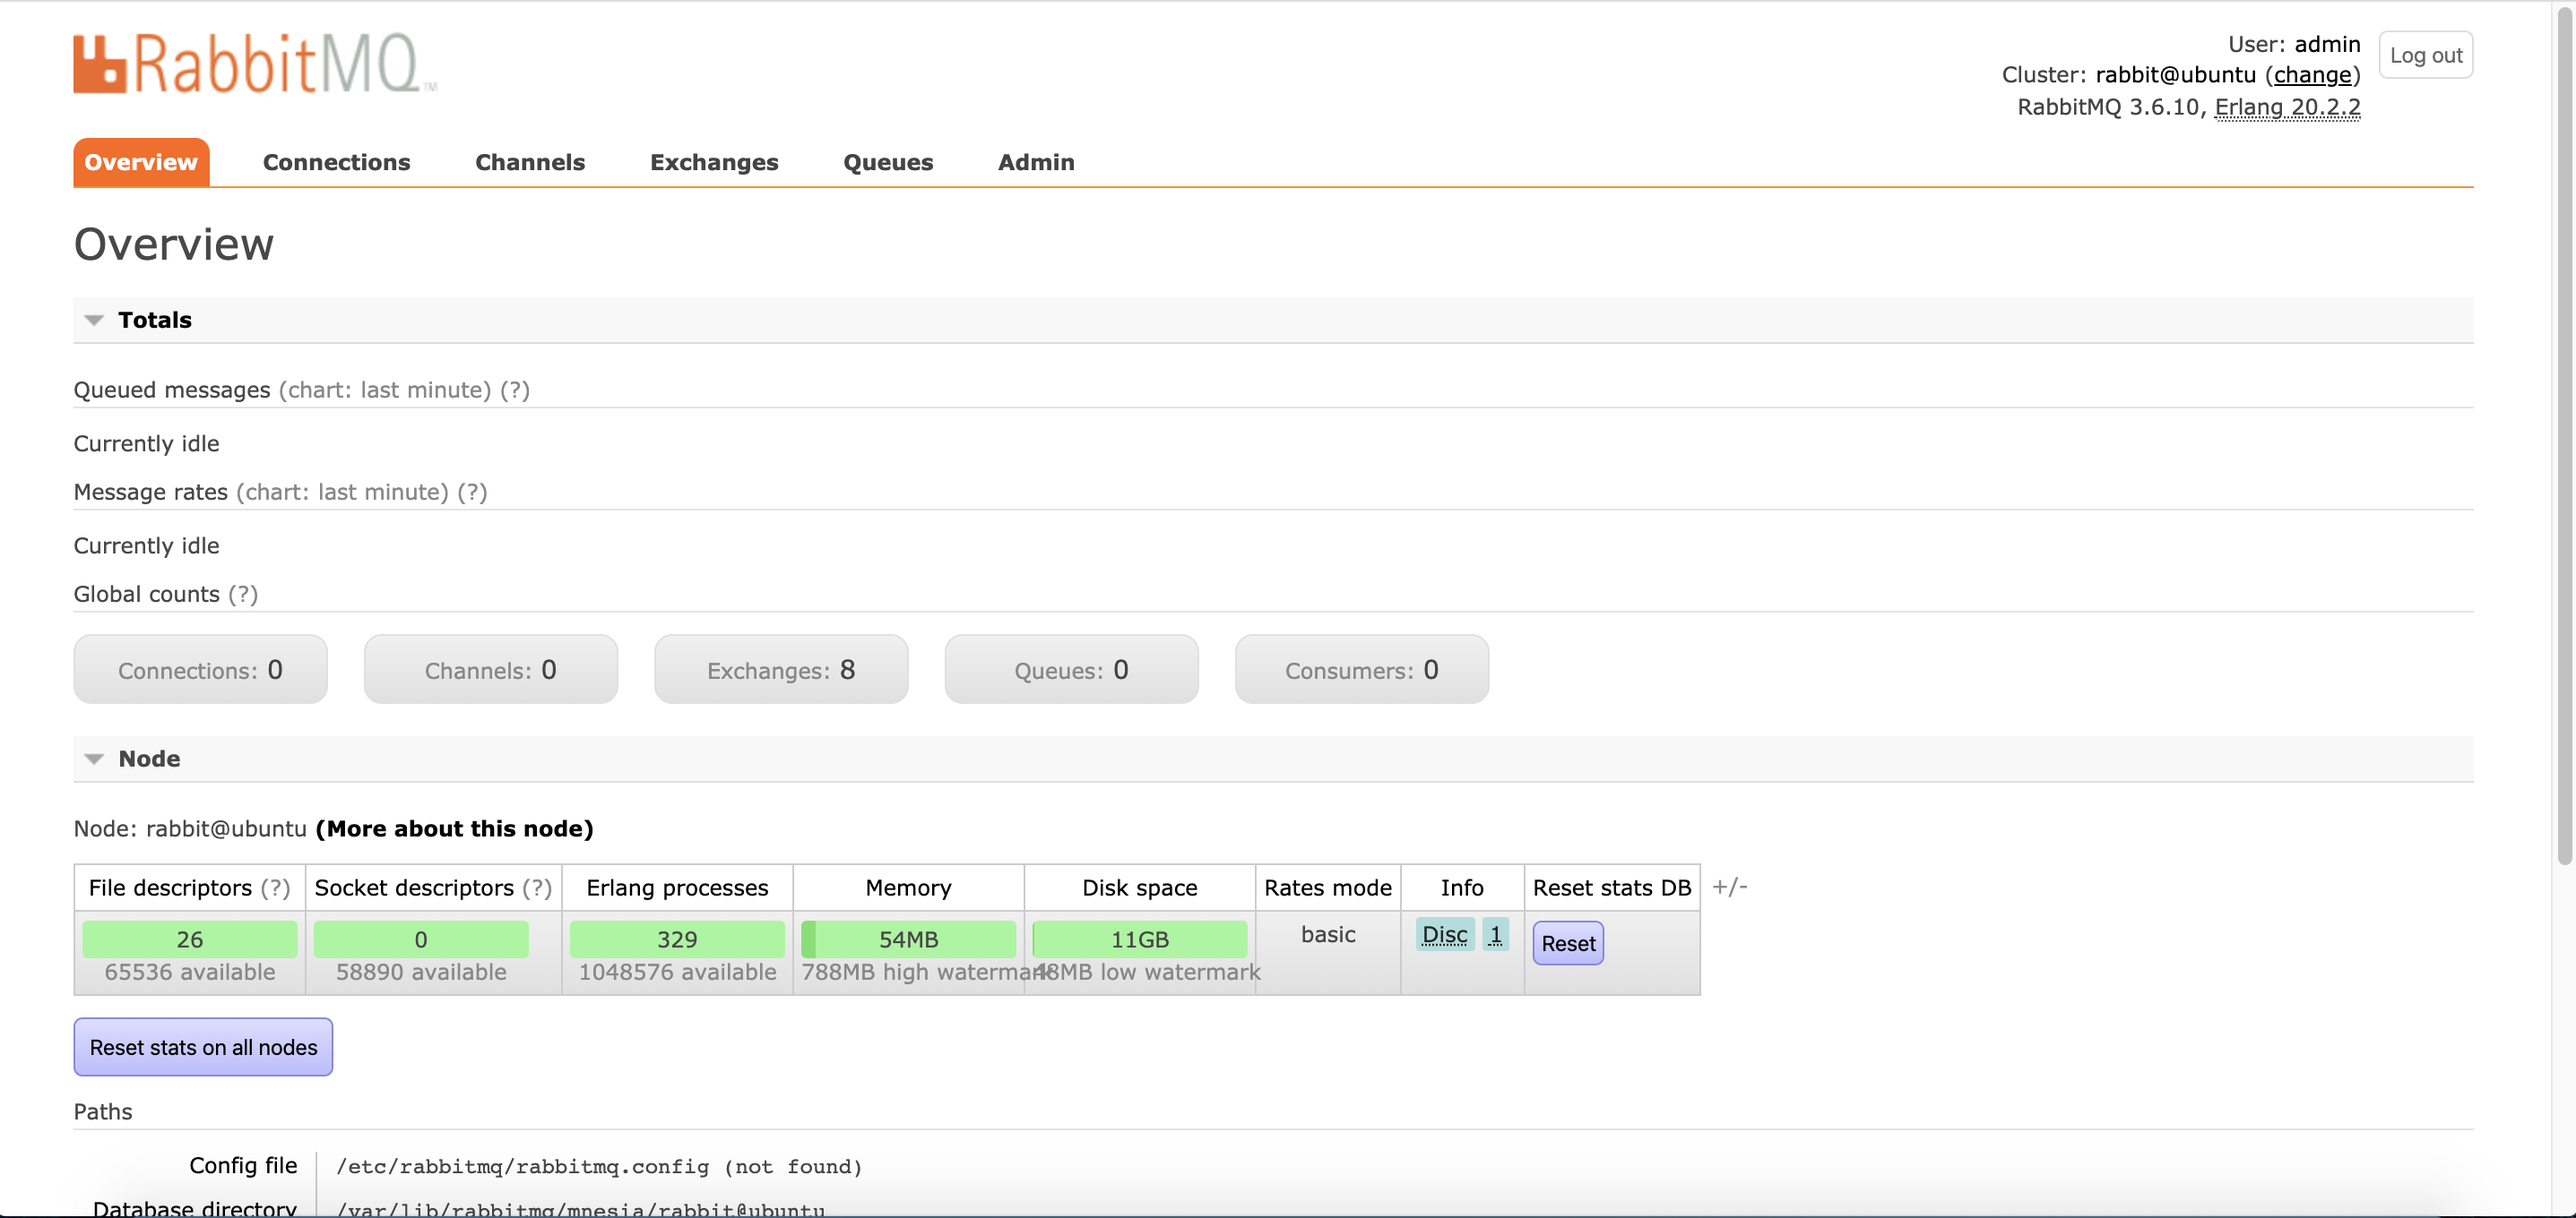
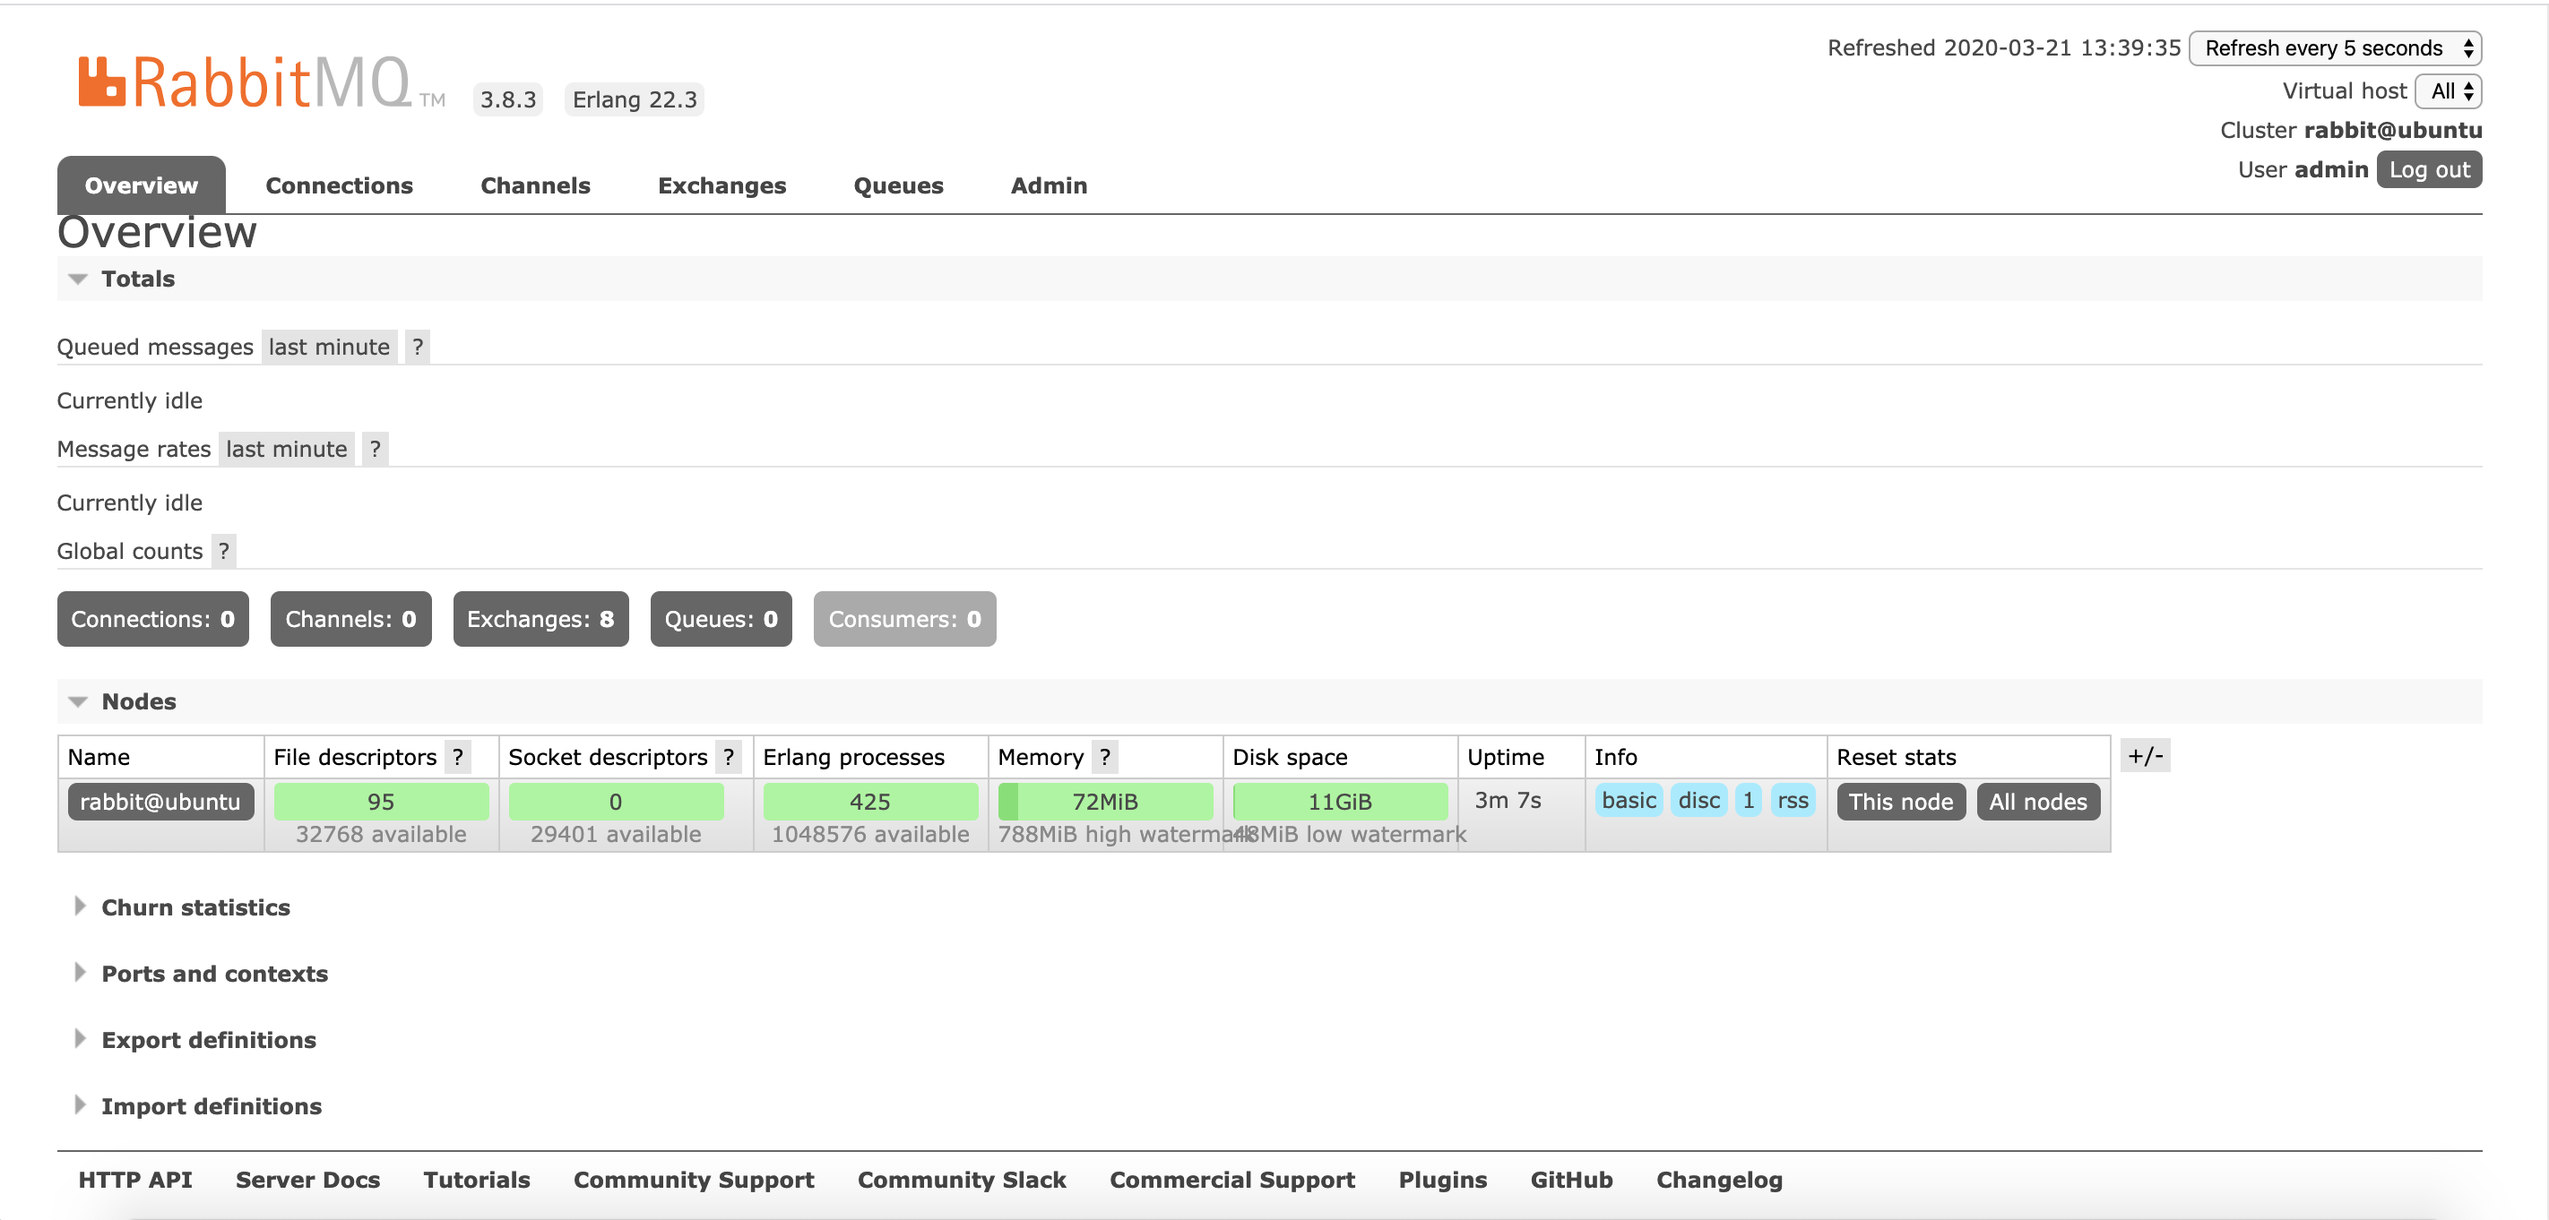
更新 Ubuntu 18.04 安装 RabbitMQ

diff --git a/_posts/linux/2020/2020-03/2020-03-21-ubuntu-install-rabbitmq.md b/_posts/linux/2020/2020-03/2020-03-21-ubuntu-install-rabbitmq.md
@@ -17,14 +17,25 @@ RabbitMQ的下载地址：[http://www.rabbitmq.com/download.html](http://www.rab
 
 由于 RabbitMQ 需要 erlang 语言的支持，在安装 RabbitMQ 之前需要安装erlang
 
+首先配置源
+
+```shell
+echo "deb https://dl.bintray.com/rabbitmq/debian trusty main" | sudo tee /etc/apt/sources.list.d/bintray.rabbitmq.list
+echo "deb http://packages.erlang-solutions.com/ubuntu trusty contrib" | sudo tee -a /etc/apt/sources.list.d/erlang_solutions.list
+```
+
+导入对应的 key
+
+```shell
+wget -c -O- http://packages.erlang-solutions.com/ubuntu/erlang_solutions.asc | sudo apt-key add -
+wget -O- https://dl.bintray.com/rabbitmq/Keys/rabbitmq-release-signing-key.asc |sudo apt-key add -
+```
+
+开始安装 erlang 和 RabbitMQ
+
 ```shell
 sudo apt-get update
 sudo apt-get install erlang-nox
-```
-
-安装 RabbitMQ
-
-```shell
 sudo apt-get install rabbitmq-server
 ```
 
@@ -62,8 +73,7 @@ sudo rabbitmqctl  set_permissions -p / admin '.*' '.*' '.*'
 RabbitMQ 提供了一个 web 管理工具（rabbitmq_management），方便在浏览器端管理 RabbitMQ
 
 ```shell
-cd /etc/rabbitmq/
-sudo  rabbitmq-plugins enable rabbitmq_management
+sudo rabbitmq-plugins enable rabbitmq_management
 ```
 
 之后在浏览器访问 [http://server-ip:15672/]，账号与密码都是刚才设置的 admin
